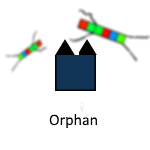
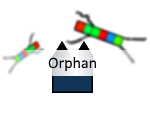
Going full estetare.

Changed region(s): [[0.32, 0.048, 1.0, 0.864], [0.0, 0.192, 0.32, 0.6]]

diff --git a/src/main/java/draw/ARender.java b/src/main/java/draw/ARender.java
@@ -351,7 +351,7 @@ public abstract class ARender extends Pane {
 			content.setMaxSize(width, height);
 
 			// if (content.isVisible()) {
-			height = height + 35; // Space for header bar
+			height = height + 10; // Space for header bar
 			root.setPrefSize(width, height);
 			root.setMaxSize(width, height);
 
@@ -966,7 +966,7 @@ public abstract class ARender extends Pane {
 		if (content.getBackground() == null) {
 			calculateSize();
 		} else {
-			setSize(150, 115);
+			setSize(150, 90);
 		}
 		for (Node n : nonHideButtons) {
 			n.setVisible(true);
